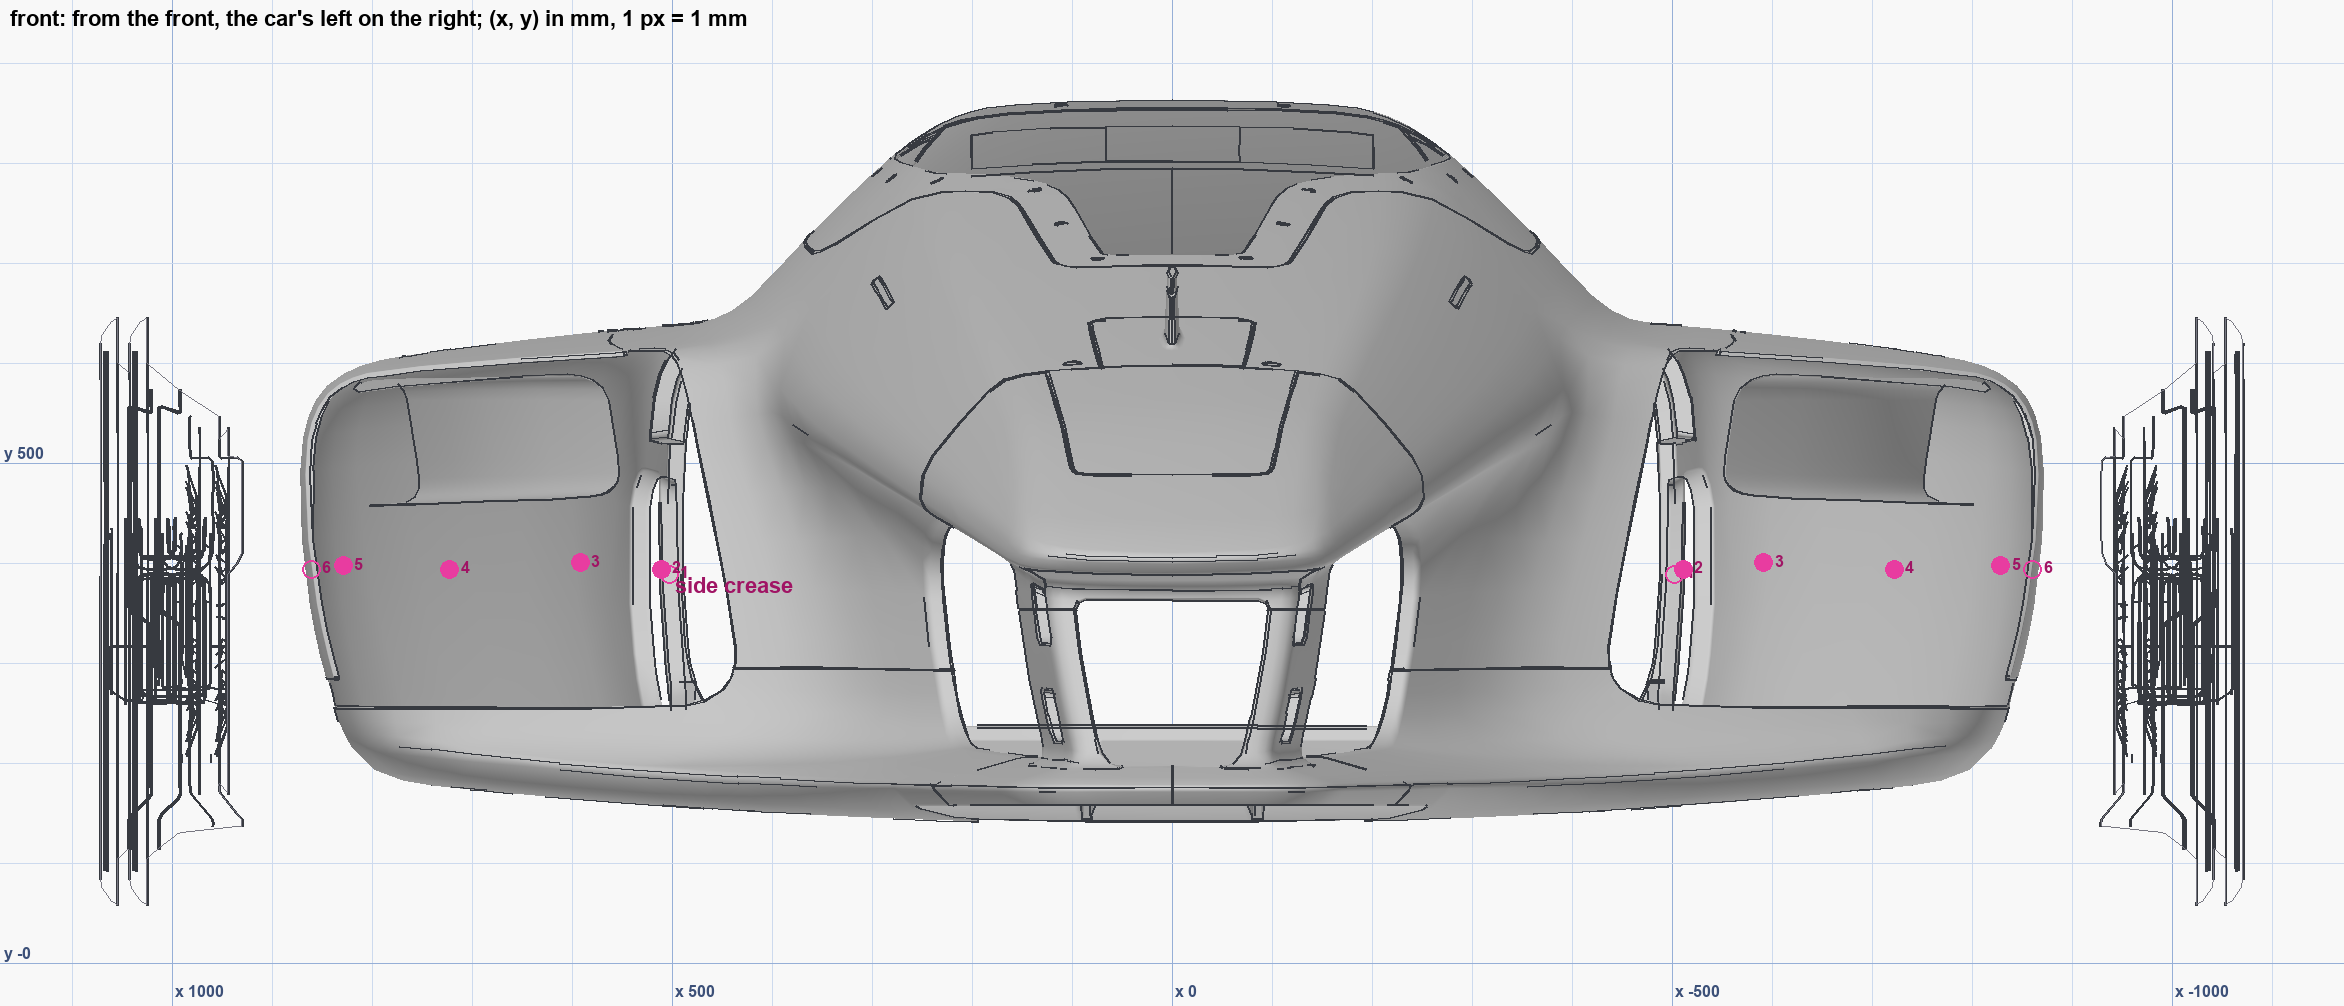
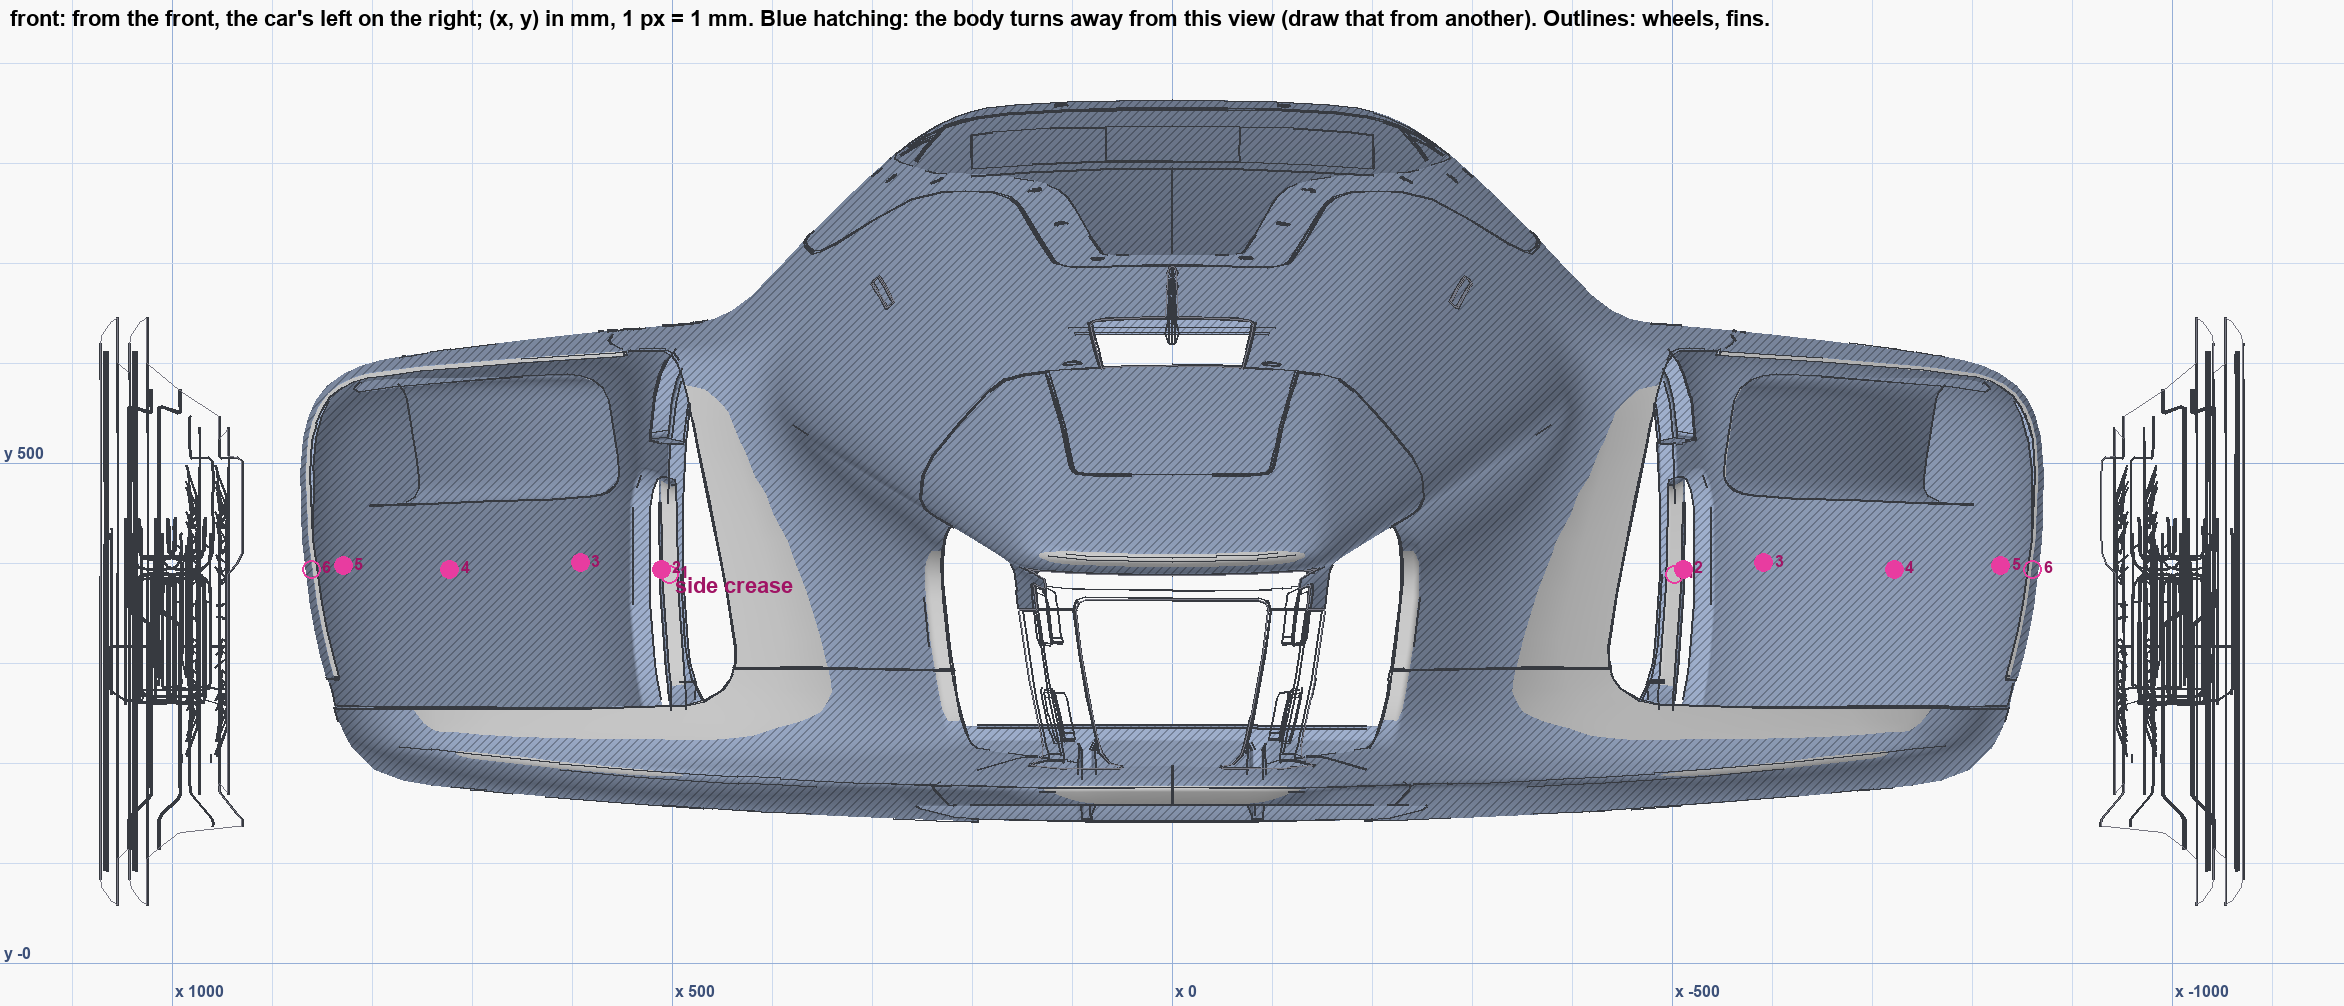
The blueprints, the user's look: a view is trustworthy only on the surfaces that face it. The first swoosh started on the wing's pylon, ran along the underside's slope below the fold and climbed onto the sidepod's top, all where the side picture could see but the body faced away; now view_line and v

diff --git a/tool/blueprint.py b/tool/blueprint.py
@@ -8,6 +8,7 @@ no spline through the air. shapes.view_line, view_shape and view_point are the p
     python -m tool.blueprint                 build car/blueprints/<view>.png for every view (+ .json)
     python -m tool.blueprint --view left     one view
     python -m tool.blueprint --pins left     the user's pins (tool/lines.py) in that view's mm
+    python -m tool.blueprint --probe left "M 1850,330 C ..."   what a path lands on, every 25 mm: read it before painting
 
 A view's coordinates are the car's own, in millimetres, along the two axes the view shows
 (VIEWS): the left and right views (z, y): z forward from the car's origin, y up from the ground;
@@ -17,8 +18,11 @@ picture the left view has the nose to the left, the right view to the right, the
 nose up the page with the car's left on the page's left, the front view the car's left on the
 page's right (as you'd see it), the rear view the car's left on the page's left.
 
-The picture: the body (the Skin mesh only, less the wheels' faces, which are an outline: the
-wheels, the wing and the inner car are left off, so the body shows whole), shaded flat, its creases (edges where the surface turns more than
+The picture: the body (the Skin mesh only, less the wheels' faces and the blades, which are an
+outline: the wheels, the wing and the inner car are left off, so the body shows whole), shaded
+flat, the body turning away from the view (facing it under FACING: the top faces from the side,
+the undersides' slopes, the flanks from above) tinted blue and hatched, because a line drawn
+there from this view doesn't land: it's drawn from the view that faces it, its creases (edges where the surface turns more than
 FOLD degrees) and panel edges drawn dark, a 100 mm grid, and the user's pins from the Lab's lines
 room as numbered marks (hollow where the view doesn't see them). What every pixel shows is cached
 in the work folder (blueprint_<view>.npz: the triangle and its weights), rebuilt when the mesh or
@@ -53,17 +57,22 @@ VIEWS = {
 }
 
 
+OFF_PARTS = ("wheel cover", "nose fin", "mirror mount", "wing pylon")  # parents or names left out of what a view lands on
+FACING = 0.6  # how squarely the body must face a view for a line drawn on it to land there (about 53 degrees)
+
+
 def _mesh():
-    """The body's mesh, and which of its triangles are the wheel covers (the wheels' faces: a line
-    drawn across a wheel must not paint it, so they're left out of what a view lands on, and
-    drawn only as an outline on the picture)."""
+    """The body's mesh, and which of its triangles a view mustn't land on: the wheels' faces and
+    the blades (the nose fin, the mirror mounts, the wing's pylons). A line drawn across a wheel
+    must not paint its face, and a line that starts under the nose must not paint the pylon
+    behind it (the first proof did both). They're drawn as outlines on the picture."""
     from tool import parts
     m = fbx.meshes()["Skin_01"]
     T = m["tri_vertex"]
     p = parts.load()
     inst = p.tri_part[p.mesh_offset["Skin"]:p.mesh_offset["Skin"] + len(T)]
-    cover = np.array([x.get("parent") == "wheel cover" for x in p.instances])[inst]
-    return m["positions"].astype(np.float64), T, m["tri_uv"].astype(np.float64), m["tri_normal"].astype(np.float64), cover
+    off = np.array([x.get("parent") in OFF_PARTS or x["name"] in OFF_PARTS for x in p.instances])[inst]
+    return m["positions"].astype(np.float64), T, m["tri_uv"].astype(np.float64), m["tri_normal"].astype(np.float64), off
 
 
 class Blueprint:
@@ -78,8 +87,9 @@ class Blueprint:
         self.h_axis, self.h_sign = AXIS[spec["h"][0]], spec["h"][1]
         self.v_axis, self.v_sign = AXIS[spec["v"][0]], spec["v"][1]
         self.axes = (spec["h"][0], spec["v"][0])
-        P, T, UV, N, cover = _mesh()
-        self.P, self.T, self.UV, self.N, self.cover = P, T, UV, N, cover
+        P, T, UV, N, off = _mesh()
+        self.P, self.T, self.UV, self.N, self.off = P, T, UV, N, off
+        self.part = None  # each triangle's part name, on demand (part_of)
         h = P[:, self.h_axis] * 10 * self.h_sign
         v = P[:, self.v_axis] * 10 * self.v_sign
         self.W = int(np.ceil((h.max() - h.min() + 2 * MARGIN) * SCALE))
@@ -114,7 +124,7 @@ class Blueprint:
                 d = np.load(c)
                 self._hits = (d["tri"], d["bary"].astype(np.float32))
             else:
-                tri, bary = self._rasterise(~self.cover)
+                tri, bary = self._rasterise(~self.off)
                 c.parent.mkdir(parents=True, exist_ok=True)
                 np.savez_compressed(c, tri=tri, bary=bary.astype(np.float16))
                 self._hits = (tri, bary)
@@ -210,6 +220,12 @@ class Blueprint:
         body = tri >= 0
         grey = np.clip(shade * 205, 0, 255).astype(np.uint8)
         img[body] = grey[body][:, None]
+        # the body turning away from the view (under FACING): a line drawn there from this view
+        # doesn't land; tinted and hatched so it reads as "not from here"
+        away = body & ((n @ self.toward) < FACING)
+        hatch = ((np.arange(self.H)[:, None] + np.arange(self.W)[None, :]) % 8) < 2
+        img[away] = (img[away] * np.array([0.78, 0.86, 1.0])).astype(np.uint8)
+        img[away & hatch] = (img[away & hatch] * 0.75).astype(np.uint8)
         im = Image.fromarray(img)
         d = ImageDraw.Draw(im)
         # the grid: every 100 mm faint, every 500 mm darker and labelled
@@ -246,8 +262,8 @@ class Blueprint:
             xa, ya = self.to_pixel(ha[0], va[0])
             xb, yb = self.to_pixel(hb[0], vb[0])
             d.line([(xa, ya), (xb, yb)], fill=(55, 58, 64), width=2)
-        # the wheel covers, an outline only: a landmark, not a surface to draw on
-        wheels = self._rasterise(self.cover)[0] >= 0
+        # the wheel covers and the blades, an outline only: landmarks, not surfaces to draw on
+        wheels = self._rasterise(self.off)[0] >= 0
         edge = wheels & ~np.roll(wheels, 1, 0) | wheels & ~np.roll(wheels, 1, 1) | wheels & ~np.roll(wheels, -1, 0) | wheels & ~np.roll(wheels, -1, 1)
         ys, xs = np.nonzero(edge)
         d.point(list(zip(xs.tolist(), ys.tolist())), fill=(120, 120, 130))
@@ -275,8 +291,35 @@ class Blueprint:
                         k0 = int(np.flatnonzero(ok)[0])
                         x, y = self.to_pixel(h[k0], v[k0])
                         d.text((x + 14, y + 4), L["name"], fill=(160, 20, 100), font=font)
-        d.text((10, 6), f"{self.view}: {VIEWS[self.view]['about']}; ({hn}, {vn}) in mm, 1 px = 1 mm", fill=(0, 0, 0), font=font)
+        d.text((10, 6), f"{self.view}: {VIEWS[self.view]['about']}; ({hn}, {vn}) in mm, 1 px = 1 mm. "
+               "Blue hatching: the body turns away from this view (draw that from another). Outlines: wheels, fins.", fill=(0, 0, 0), font=font)
         return im, marks
+
+
+    def part_of(self, tri_ids):
+        """The part's name of each triangle id (-1: none)."""
+        if self.part is None:
+            from tool import parts
+            p = parts.load()
+            inst = p.tri_part[p.mesh_offset["Skin"]:p.mesh_offset["Skin"] + len(self.T)]
+            self.part = np.array([x["name"] for x in p.instances])[inst]
+        t = np.asarray(tri_ids)
+        return np.where(t >= 0, self.part[np.maximum(t, 0)], "-")
+
+    def probe(self, path, step=25.0):
+        """What a path lands on, every `step` mm: rows of (h, v, part or "off", facing the view,
+        x y z cm), for reading before painting."""
+        tri, _ = self.hits()
+        rows = []
+        for sub in sample_path(path, step):
+            pos, nrm, ok = self.hit(sub[:, 0], sub[:, 1])
+            col, row, _ = self._at(sub[:, 0], sub[:, 1])
+            part = self.part_of(np.where(ok, tri[row, col], -1))
+            facing = nrm @ self.toward
+            for k in range(len(sub)):
+                rows.append((float(sub[k, 0]), float(sub[k, 1]), str(part[k]) if ok[k] else "off", float(facing[k]) if ok[k] else 0.0,
+                             tuple(float(v) for v in pos[k]) if ok[k] else None))
+        return rows
 
 
 def _font():
@@ -430,7 +473,16 @@ def main():
     ap = argparse.ArgumentParser()
     ap.add_argument("--view", choices=list(VIEWS))
     ap.add_argument("--pins", metavar="VIEW", choices=list(VIEWS), help="the user's pins in that view's mm")
+    ap.add_argument("--probe", nargs=2, metavar=("VIEW", "PATH"), help="what an SVG path lands on, every 25 mm, before painting it")
     args = ap.parse_args()
+    if args.probe:
+        bp = load(args.probe[0])
+        print(f"  {bp.axes[0]:>6}  {bp.axes[1]:>5}  {'lands on':16s} facing   x     y     z (cm)")
+        for h, v, part, facing, pos in bp.probe(args.probe[1]):
+            flag = "" if part == "off" else ("  <- turns away: won't land from this view" if facing < FACING else "")
+            xyz = f"{pos[0]:6.1f} {pos[1]:5.1f} {pos[2]:6.1f}" if pos else ""
+            print(f"  {h:6.0f}  {v:5.0f}  {part:16s} {facing:5.2f}  {xyz}{flag}")
+        return
     if args.pins:
         from tool import lines
         bp = load(args.pins)

diff --git a/tool/shapes.py b/tool/shapes.py
@@ -474,40 +474,48 @@ def line_offset(kind, d, width, soft=SOFT):
 
 # ---- The blueprints (tool/blueprint.py): drawn flat on a view, landed on the body ----
 
-def view_line(view, path, width, soft=SOFT):
+def view_line(view, path, width, soft=SOFT, min_facing=None):
     """A line `width` mm wide drawn on a blueprint ("left", "right", "top", "front", "rear") as an
     SVG path in the view's mm (tool/blueprint.py says the axes: (z, y) on the sides, (x, z) from
     above, (x, y) front and rear; M, L, C, Q, S, T, Z, no arcs). Each point of the path lands on
     the body along the line of sight, and the line is painted as the exact 3D distance to that
-    curve, so its width holds where the body turns away from the view and it never breaks at a
-    seam. Where the path leaves the body's outline the line stops. The zone keeps .pieces (the
-    curve on the body, cm) for the check."""
+    curve, so its width holds where the body curves and it never breaks at a seam. It lands only
+    where the body faces the view (blueprint.FACING, or `min_facing`): where the path leaves the
+    body's outline, crosses a wheel or a fin, or runs onto a surface turning away from the view (a
+    top face from the side, the underside's slope: the first proof's swoosh did both), the line
+    stops there and says so; draw that stretch from the view that faces it. The zone keeps
+    .pieces (the curve on the body, cm) for the check."""
     from tool import blueprint
     bp = blueprint.load(view)
-    pieces, gaps = [], []
+    least = blueprint.FACING if min_facing is None else min_facing
+    pieces, gaps, away = [], [], []
     for sub in blueprint.sample_path(path, 1.0):
-        pos, _, ok = bp.hit(sub[:, 0], sub[:, 1])
-        for run in np.split(np.arange(len(ok)), np.flatnonzero(np.diff(ok.astype(int)) != 0) + 1):
-            if ok[run[0]] and len(run) > 1:
+        pos, nrm, ok = bp.hit(sub[:, 0], sub[:, 1])
+        faces = ok & ((nrm @ bp.toward) >= least)
+        for run in np.split(np.arange(len(faces)), np.flatnonzero(np.diff(faces.astype(int)) != 0) + 1):
+            if faces[run[0]] and len(run) > 1:
                 pieces.append(pos[run])
-            elif not ok[run[0]] and len(run) >= 5:
-                gaps.append((tuple(sub[run[0]].round()), tuple(sub[run[-1]].round()), len(run)))
-    if gaps:  # said out loud: a path over an opening, a wheel or off the outline paints nothing there
-        print(f"view_line {view}: off the body " + "; ".join(f"for {n} mm between ({a[0]:.0f}, {a[1]:.0f}) and ({b[0]:.0f}, {b[1]:.0f})" for a, b, n in gaps))
+            elif not faces[run[0]] and len(run) >= 5:
+                (away if ok[run].any() else gaps).append((tuple(sub[run[0]].round()), tuple(sub[run[-1]].round()), len(run)))
+    say = lambda what, runs: "; ".join(f"{what} for {n} mm between ({a[0]:.0f}, {a[1]:.0f}) and ({b[0]:.0f}, {b[1]:.0f})" for a, b, n in runs)
+    if gaps or away:  # said out loud: nothing is painted there
+        print(f"view_line {view}: " + "; ".join(filter(None, [say("off the body", gaps), say("the body turns away from the view", away)])))
     z = polyline(pieces, width / 10, soft)
     z.pieces, z.view, z.path, z.gaps, z.kind, z.width = pieces, view, path, gaps, "line", width
     return z
 
 
-def view_shape(view, path, soft=SOFT, min_facing=0.05, tolerance=0.5):
+def view_shape(view, path, soft=SOFT, min_facing=None, tolerance=0.5):
     """A filled shape drawn on a blueprint as a closed SVG path (subpaths add up), landed on the
     body: every spot of the body the view sees inside the outline (within `tolerance` cm of what
-    the view shows, facing it at least `min_facing`), the edge feathered in the view's mm. The
-    far side and anything hidden behind the body stay unpainted."""
+    the view shows, facing it at least `min_facing`, blueprint.FACING unless said), the edge
+    feathered in the view's mm. The far side, anything hidden behind the body and the surfaces
+    turning away from the view stay unpainted."""
     from scipy.ndimage import distance_transform_edt, map_coordinates
     from PIL import Image, ImageDraw
     from tool import blueprint
     bp = blueprint.load(view)
+    min_facing = blueprint.FACING if min_facing is None else min_facing
     mask = Image.new("L", (bp.W, bp.H), 0)
     d = ImageDraw.Draw(mask)
     for sub in blueprint.sample_path(path, 1.0):

diff --git a/skins/TSC_Blueprint/design.py b/skins/TSC_Blueprint/design.py
@@ -1,7 +1,9 @@
 """The blueprints' test car (tool/blueprint.py, 2026-09-29): everything on it is drawn flat on a
 view and landed on the body. A 20 mm line through the user's own pins for the side crease (the Lab's
 lines room), from the left view and again from the right; a
-30 mm swoosh from the nose's flank up to the sidepod's top edge, drawn on no line the body has; a
+30 mm swoosh along the front flank rising onto the sidepod's flank, drawn on no line the body has (its
+first drawing started on the wing's pylon, ran along the underside's slope and climbed onto the
+sidepod's top: the user saw it, 2026-09-30, and the views now land only where the body faces them); a
 chevron filled on the bonnet from the top view. A test car for the blueprints, not a skin to drive."""
 
 from tool import shapes
@@ -9,7 +11,9 @@ from tool import shapes
 BODY = "body"
 # (z, y) mm on the side views: through the pinned side crease, (-1456, 390) ... (-386, 395)
 SIDE = "M -1500,388 C -1100,394 -700,397 -386,395"
-SWOOSH = "M 1850,330 C 1400,340 1000,560 250,600"
+# the front flank faces the side between y 455 and 580 at z 1400, 505 and 680 at z 800; the sidepod's
+# top edge is at about y 745 at z 300 and the inlet's mouth below y 515 there: the swoosh keeps inside
+SWOOSH = "M 1450,500 C 1100,520 800,600 300,640"
 # (x, z) mm on the top view: an arrow head on the bonnet, pointing at the nose
 CHEVRON = "M 0,1380 L 290,960 L 150,930 L 0,1180 L -150,930 L -290,960 Z"
 
@@ -22,7 +26,7 @@ def design(s):
            "landed on the body.", words="the blueprints")
     for view in ("left", "right"):
         s.paint(BODY, "satin", colour="#d81e5b", zone=shapes.view_line(view, SIDE, 20))
-    s.step("The swoosh", "A 30 mm sweep from the nose's flank up to the sidepod's top edge, on no line the body has.",
+    s.step("The swoosh", "A 30 mm sweep along the front flank rising onto the sidepod's flank, on no line the body has.",
            words="the blueprints")
     for view in ("left", "right"):
         s.paint(BODY, "satin", colour="#1e5bd8", zone=shapes.view_line(view, SWOOSH, 30))

diff --git a/CHECKLIST.md b/CHECKLIST.md
@@ -4042,6 +4042,29 @@ weights are cached (`cache/blueprint_<view>_1.npz`, 7 s for all five); the pictu
   path on average, the shape's edge within 1.5 mm at every point of its outline. Painted in 15 s.
   A swoosh drawn to the sidepod's top edge climbs over it onto the top face (the line of sight
   lands there): a designer who wants it to stop at the edge draws it to stop short.
+- **The user's look (2026-09-30): "that blue line does not seem right. It starts above the body
+  and ends up going below the body facing the nose inner ... Starting to think the tool just
+  simply does not understand geometry, or there's a disconnection between uv map and model."**
+  No disconnection: the paint went exactly where the side picture said (the check proves it),
+  but a side picture also shows surfaces that face down, up or belong to fins, and the first
+  swoosh used all three: it started on the wing's pylon (at that height there is no nose, only
+  the pylon behind it), ran along the underside's slope below the front flank's fold (facing the
+  side at 0.48, down at 0.87) and climbed onto the sidepod's top face at its end (facing 0.48 side,
+  0.77 up), all read off the probe of what the path lands on. The lesson: **a view is
+  trustworthy only on the surfaces that face it.** So now (`blueprint.FACING` = 0.6, about 53
+  degrees): `view_line` and `view_shape` land only where the body faces the view, and say out
+  loud where the path runs onto a surface turning away ("the body turns away from the view for
+  ... mm between ... and ..."); the wheels' faces and the blades (the nose fin, the mirror mounts,
+  the wing's pylons: `blueprint.OFF_PARTS`) are outlines only; the picture tints and hatches in
+  blue every surface turning away from its view (the top of the nose, the sidepod's top, the
+  underside's slope, the tail's top from the side), with a caption saying to draw those from
+  another view; and `python -m tool.blueprint --probe <view> "<path>"` prints every 25 mm what a
+  path lands on (the part, how squarely it faces the view, the spot in cm), to read before
+  painting. The swoosh redrawn along the flank, above the fold, ending under the sidepod's top
+  edge: on the body shell facing the side at 0.74 to 0.89 all along, its centre within 0.45 mm
+  of the path on average. Also the stretch of the front flank the side view can't see for the
+  wheel (359 mm, behind the wheel's disc): the line stops there and starts again; if a line must
+  run behind a wheel, that stretch is drawn from another view or left to the wheel.
 - **Seen in the game:** not yet.
 
 ## Decisions (for Claude)

diff --git a/IMPROVEMENTS.md b/IMPROVEMENTS.md
@@ -45,8 +45,11 @@ the design as asked), then speed.
   path every 2 mm, breaks counted, a shape's edge against its outline; `--falsify` moves every path
   5 mm and must fail: it does); the proof car TSC_Blueprint (a 20 mm line through the user's side
   crease pins, a 30 mm swoosh from the nose to the sidepod's top, a chevron on the bonnet from
-  above): the lines' centres within 0.9 mm of the path on average, the shape's edge within 1.5 mm
-  everywhere. Left: `view_lines` across two views (a line wrapping from the side over the nose to
+  above): the lines' centres within 0.6 mm of the path on average, the shape's edge within 1.5 mm
+  everywhere. The user's look at the first swoosh ("starts above the body and ends up going below
+  the body") taught the rule that a view is trustworthy only on the surfaces that face it: the
+  views now land only there, the pictures hatch the rest, and `--probe` says what a path lands
+  on before it's painted. Left: `view_lines` across two views (a line wrapping from the side over the nose to
   the other side), (6) the proof car in the game (nothing of this has been seen in the game yet),
   (7) painted pictures projected from a view (the user: "Anything"), blended over several views
   where the body turns away. The plan: `~/.claude/plans/hi-i-need-to-lucky-parnas.md` on the Mac.
